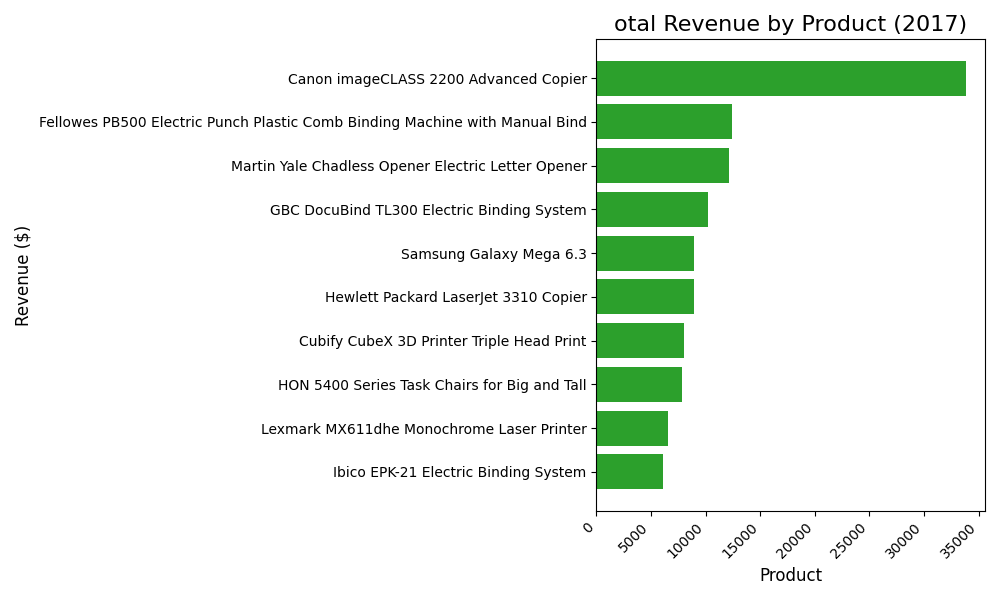
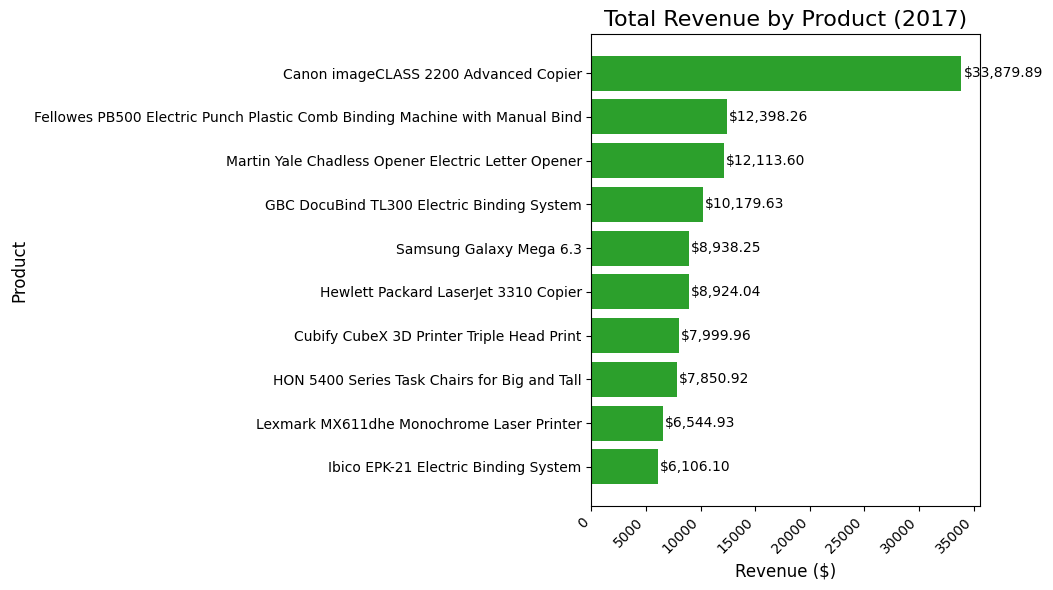
small improvements

Changed region(s): [[0.031, 0.0, 0.992, 0.9763], [0.0, 0.3661, 0.031, 0.5492]]

diff --git a/report_gen.py b/report_gen.py
@@ -35,17 +35,17 @@ def generate_report():
     plt.figure(figsize=(10,6))
     bars = plt.barh(df['product_name'].iloc[::-1], df['total_revenue'].iloc[::-1], color = '#2ca02c')
 
-    plt.title('otal Revenue by Product (2017)', fontsize = 16)
-    plt.xlabel('Product', fontsize = 12)
-    plt.ylabel('Revenue ($)', fontsize = 12)
+    plt.title('Total Revenue by Product (2017)', fontsize = 16)
+    plt.xlabel('Revenue ($)', fontsize = 12)
+    plt.ylabel('Product', fontsize = 12)
     plt.xticks(rotation = 45, ha='right')
     plt.tight_layout()
     for bar in bars:
-        yval = bar.get_height()
-        plt.text(bar.get_x() + bar.get_width()/2, yval+ 100, f"${yval:,.2f}", ha="center", va="bottom")
+        xval = bar.get_width()
+        plt.text(xval + 200, bar.get_y() + bar.get_height()/2, f"${xval:,.2f}", va="center", ha="left")
     
     image_path = 'reports/revenue_chart.png'
-    plt.savefig(image_path)
+    plt.savefig(image_path, bbox_inches='tight')
     print(f"Visual Chart Generated: {image_path}")
 
 if __name__ == '__main__':

diff --git a/data_loader.py b/data_loader.py
@@ -1,6 +1,5 @@
 import pandas as pd
 import sqlite3
-import math
 
 df = pd.read_csv('data/Sample - Superstore.csv', encoding = 'latin1')
 
